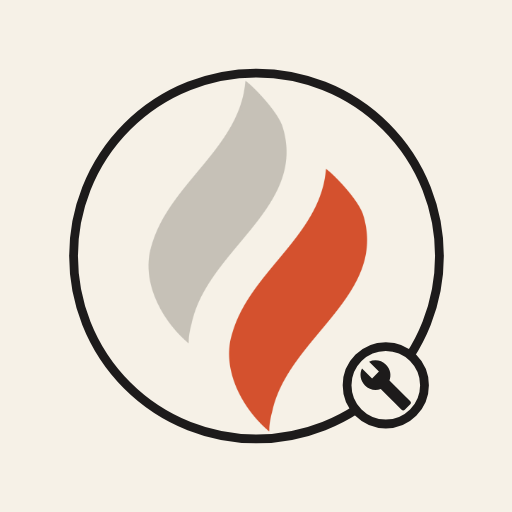
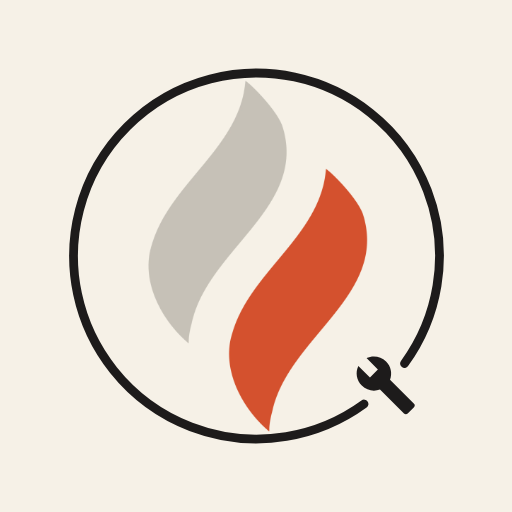
Drop the badge circle from the mark; ring breaks around a free-floating wrench
The wrench now sits in a gap in the ring instead of inside its own
small circle, and is slightly larger. Removes the badgeFill prop since
there's no filled badge to match to the surface anymore. App icons
regenerated from the same lockup.

Claude-Session: https://claude.ai/code/session_01CXFwnDFbYksh3SM5xkGUS4

Changed region(s): [[0.6562, 0.6562, 0.8438, 0.8438]]

diff --git a/src/components/ServiceDeskMark.tsx b/src/components/ServiceDeskMark.tsx
@@ -2,18 +2,9 @@
 const WRENCH_PATH =
   "M22.7 19l-9.1-9.1c.9-2.3.4-5-1.5-6.9-2-2-5-2.4-7.4-1.3L9 6 6 9 1.6 4.7C.4 7.1.9 10.1 2.9 12.1c1.9 1.9 4.6 2.4 6.9 1.5l9.1 9.1c.4.4 1 .4 1.4 0l2.3-2.3c.5-.4.5-1.1.1-1.4z";
 
-/**
- * The Kendale flame (untouched) inside a thin ring with a wrench badge.
- * Ring, badge outline and wrench take `currentColor`; `badgeFill` should
- * match whatever the mark sits on so the badge visibly breaks the ring.
- */
-export default function ServiceDeskMark({
-  className = "h-10",
-  badgeFill = "#f6f1e7",
-}: {
-  className?: string;
-  badgeFill?: string;
-}) {
+// The Kendale flame (untouched) inside a ring that breaks around a free-floating
+// wrench. Ring and wrench take currentColor, so it works on any surface.
+export default function ServiceDeskMark({ className = "h-10" }: { className?: string }) {
   return (
     <span
       role="img"
@@ -28,9 +19,15 @@ export default function ServiceDeskMark({
         style={{ left: "21.4%", top: "10%", width: "57.3%", height: "80%" }}
       />
       <svg viewBox="0 0 220 250" className="absolute inset-0 h-full w-full" aria-hidden="true">
-        <circle cx="110" cy="125" r="104" fill="none" stroke="currentColor" strokeWidth="5" />
-        <circle cx="183.5" cy="198.5" r="22" fill={badgeFill} stroke="currentColor" strokeWidth="5" />
-        <g transform="translate(167.9,182.9) scale(1.3)">
+        {/* Ring broken around the lower-right, where the wrench floats in the gap. */}
+        <path
+          d="M171.13 209.14 A104 104 0 1 1 194.14 186.13"
+          fill="none"
+          stroke="currentColor"
+          strokeWidth="5"
+          strokeLinecap="round"
+        />
+        <g transform="translate(165.5,180.5) scale(1.5)">
           <path d={WRENCH_PATH} fill="currentColor" />
         </g>
       </svg>

diff --git a/src/app/tickets/[id]/page.tsx b/src/app/tickets/[id]/page.tsx
@@ -37,7 +37,7 @@ export default async function ServiceTicketPage({
       <div className="max-w-[8.5in] mx-auto bg-white border border-stone-200 print:border-0 p-10 text-sm text-charcoal">
         <div className="flex items-start justify-between border-b border-stone-200 pb-4 mb-6">
           <div className="flex items-center gap-3">
-            <ServiceDeskMark className="h-12 text-charcoal" badgeFill="#ffffff" />
+            <ServiceDeskMark className="h-12 text-charcoal" />
             <div>
               <p className="font-heading font-semibold text-lg leading-tight">
                 Kendale Service Desk

diff --git a/src/app/login/page.tsx b/src/app/login/page.tsx
@@ -14,7 +14,7 @@ export default async function LoginPage({
     <div className="min-h-screen flex items-center justify-center bg-charcoal px-4">
       <div className="w-full max-w-sm">
         <div className="flex flex-col items-center mb-6">
-          <ServiceDeskMark className="h-20 mb-3 text-white" badgeFill="#1d1b1b" />
+          <ServiceDeskMark className="h-20 mb-3 text-white" />
           <h1 className="text-xl font-heading font-medium text-white">Kendale Service Desk</h1>
           <p className="text-sm text-white/50 mt-1">Kendale Products Ltd &middot; Fort Erie, ON</p>
         </div>

diff --git a/src/app/(app)/Sidebar.tsx b/src/app/(app)/Sidebar.tsx
@@ -23,7 +23,7 @@ function isActive(pathname: string, href: string) {
 function BrandMark() {
   return (
     <Link href="/" className="flex items-center gap-2.5 font-heading font-medium text-white">
-      <ServiceDeskMark className="h-9 text-white" badgeFill="#1d1b1b" />
+      <ServiceDeskMark className="h-9 text-white" />
       <span className="leading-tight">Kendale Service Desk</span>
     </Link>
   );
